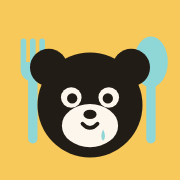
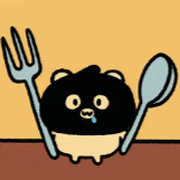
改用上传的小熊图作为图标
以 assets/bear.png 为源重新生成整套图标，替换之前手绘的版本。

- 裁掉顶部一行白边，再从底部裁 3 行取正方形（底部是桌面色，
  不损失内容），得到 161×161 后用 LANCZOS 放大到各尺寸
- 生成 180（iOS 桌面）、192、512 和 32（标签页）
- maskable 版内容缩至 80% 留安全区，背景改用纯色分区，桌面线
  位置与缩放后的图对齐；先前用拉伸原图作背景会在边缘露出重复
  的勺子和耳朵
- manifest 启动背景改为图片主色 #f3c169
- 移除手绘的 icon.svg：浏览器会优先选用 SVG，留着会导致标签页
  显示的仍是旧图标

原图 161×161，放大到 512 会有一定模糊，日后有更大的源图可直接
替换 bear.png 重新生成。

Claude-Session: https://claude.ai/code/session_017xynV4AzjJvggVZp2tBnGn

diff --git a/index.html b/index.html
@@ -16,8 +16,8 @@
 <meta name="apple-mobile-web-app-title" content="吃啥">
 <link rel="apple-touch-icon" href="assets/apple-touch-icon.png">
 <link rel="apple-touch-icon" sizes="180x180" href="assets/apple-touch-icon.png">
+<link rel="icon" type="image/png" sizes="32x32" href="assets/favicon-32.png">
 <link rel="icon" type="image/png" sizes="192x192" href="assets/icon-192.png">
-<link rel="icon" href="assets/icon.svg" type="image/svg+xml">
 <link rel="stylesheet" href="assets/style.css">
 </head>
 <body>

diff --git a/README.md b/README.md
@@ -169,7 +169,8 @@ assets/
   app.js                主逻辑（引导流程、筛选、加权抽取、菜单、记录）
   nearby.js             高德附近搜索（可选，没配 Key 就不加载）
   style.css             样式，含深浅色主题
-  icon.svg              图标（浏览器标签页用）
-  apple-touch-icon.png  iOS 桌面图标，Safari 不认 SVG 必须是 PNG
+  bear.png              图标原图
+  apple-touch-icon.png  iOS 桌面图标（Safari 不认 SVG，必须 PNG）
+  favicon-32.png        浏览器标签页
   icon-192.png / icon-512.png / icon-maskable-512.png
 ```
